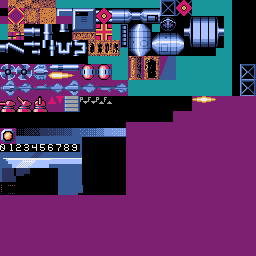
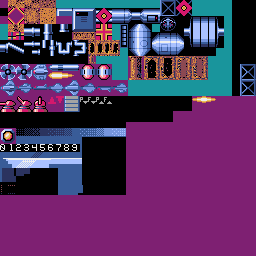
砲台も一緒に落ちるようにした

diff --git a/source/enemy.py b/source/enemy.py
@@ -425,7 +425,6 @@ class Battery1(EnemyBase):
 		self.first = 120
 		self.shot_speed = 2
 		self.remove_min_x = -16
-		self.dr8 = 4
 
 	def update(self):
 		if self.x < self.remove_min_x:
@@ -435,44 +434,46 @@ class Battery1(EnemyBase):
 			enemy_shot(self.x+8,self.y+6, self.shot_speed, 0)
 
 	def draw(self):
-		if self.cnt & 3 == 3:
-			self.dr8 = gcommon.get_direction_my(self.x+8, self.y +8)
-		y = int(self.y+0.5)
-		if self.mirror == 0:
-			if self.dr8  in (0, 1):
-				pyxel.blt(self.x, y, 1, 0, 96, -16, 16, gcommon.TP_COLOR)
-			elif self.dr8 == 2:
-				pyxel.blt(self.x, y, 1, 32, 96, 16, 16, gcommon.TP_COLOR)
-			elif self.dr8 in (3, 4):
-				pyxel.blt(self.x, y, 1, 0, 96, 16, 16, gcommon.TP_COLOR)
-			elif self.dr8 in (5, 6):
-				pyxel.blt(self.x, y, 1, 16, 96, 16, 16, gcommon.TP_COLOR)
-			elif self.dr8 == 7:
-				pyxel.blt(self.x, y, 1, 16, 96, -16, 16, gcommon.TP_COLOR)
-		else:
-			if self.dr8 == 0:
-				pyxel.blt(self.x, y, 1, 0, 96, -16, -16, gcommon.TP_COLOR)
-			elif self.dr8 == 1:
-				pyxel.blt(self.x, y, 1, 16, 96, -16, -16, gcommon.TP_COLOR)
-			elif self.dr8 == 2:
-				pyxel.blt(self.x, y, 1, 32, 96, 16, -16, gcommon.TP_COLOR)
-			elif self.dr8 == 3:
-				pyxel.blt(self.x, y, 1, 16, 96, 16, -16, gcommon.TP_COLOR)
-			elif self.dr8 == 4:
-				pyxel.blt(self.x, y, 1, 0, 96, 16, -16, gcommon.TP_COLOR)
-			elif self.dr8 == 5:
-				pyxel.blt(self.x, y, 1, 0, 96, 16, -16, gcommon.TP_COLOR)
-			elif self.dr8 == 6:
-				pyxel.blt(self.x, y, 1, 32, 96, 16, -16, gcommon.TP_COLOR)
-			elif self.dr8 == 7:
-				pyxel.blt(self.x, y, 1, 16, 96, -16, -16, gcommon.TP_COLOR)
+		drawBattery1(self.x, self.y, self.mirror)
 
+def drawBattery1(x, y, mirror):
+	dr8 = 0
+	dr8 = gcommon.get_direction_my(x+8, y +8)
+	y = int(y)
+	if mirror == 0:
+		if dr8  in (0, 1):
+			pyxel.blt(x, y, 1, 0, 96, -16, 16, gcommon.TP_COLOR)
+		elif dr8 == 2:
+			pyxel.blt(x, y, 1, 32, 96, 16, 16, gcommon.TP_COLOR)
+		elif dr8 in (3, 4):
+			pyxel.blt(x, y, 1, 0, 96, 16, 16, gcommon.TP_COLOR)
+		elif dr8 in (5, 6):
+			pyxel.blt(x, y, 1, 16, 96, 16, 16, gcommon.TP_COLOR)
+		elif dr8 == 7:
+			pyxel.blt(x, y, 1, 16, 96, -16, 16, gcommon.TP_COLOR)
+	else:
+		if dr8 == 0:
+			pyxel.blt(x, y, 1, 0, 96, -16, -16, gcommon.TP_COLOR)
+		elif dr8 == 1:
+			pyxel.blt(x, y, 1, 16, 96, -16, -16, gcommon.TP_COLOR)
+		elif dr8 == 2:
+			pyxel.blt(x, y, 1, 32, 96, 16, -16, gcommon.TP_COLOR)
+		elif dr8 == 3:
+			pyxel.blt(x, y, 1, 16, 96, 16, -16, gcommon.TP_COLOR)
+		elif dr8 == 4:
+			pyxel.blt(x, y, 1, 0, 96, 16, -16, gcommon.TP_COLOR)
+		elif dr8 == 5:
+			pyxel.blt(x, y, 1, 0, 96, 16, -16, gcommon.TP_COLOR)
+		elif dr8 == 6:
+			pyxel.blt(x, y, 1, 32, 96, 16, -16, gcommon.TP_COLOR)
+		elif dr8 == 7:
+			pyxel.blt(x, y, 1, 16, 96, -16, -16, gcommon.TP_COLOR)
 
 
 class StageClearText(EnemyBase):
 	def __init__(self, stage):
 		super(StageClearText, self).__init__()
-		self.t = gcommon.T_STAGE_START
+		t = gcommon.T_STAGE_START
 		self.x = 0
 		self.y = 0
 		self.stage = stage
@@ -1219,13 +1220,14 @@ class Shutter1(EnemyBase):
 
 # 遺跡基本クラス
 class RuinBase(EnemyBase):
-	def __init__(self, x, y, direction, mWidth, mHeight):
+	def __init__(self, mx, my, direction, mWidth, mHeight, needDummyBlock):
 		super(RuinBase, self).__init__()
-		self.x = x		# screen x
-		self.y = y		# screen y
+		pos = gcommon.mapPosToScreenPos(mx, my)
+		self.x = pos[0]		# screen x
+		self.y = pos[1]		# screen y
 		self.direction = direction
-		self.mWidth = mWidth	# 幅（8ドット単位） 2 -6
-		self.mHeight = mHeight
+		self.mWidth = mWidth	# 幅（8ドット単位）
+		self.mHeight = mHeight	# 高さ（8ドット単位）
 		self.left = 0
 		self.right = self.mWidth * 8 -1
 		self.top = 0
@@ -1234,7 +1236,11 @@ class RuinBase(EnemyBase):
 		self.layer = gcommon.C_LAYER_UNDER_GRD
 		self.hitCheck = True
 		self.shotHitCheck = True
-		self.ruinType = 0
+		self.needDummyBlock = needDummyBlock
+		if needDummyBlock:
+			gcommon.setMapDataByMapPos2(mx, my, gcommon.DUMMY_BLOCK_NO, mWidth, mHeight)
+		else:
+			gcommon.setMapDataByMapPos2(mx, my, 0, mWidth, mHeight)
 
 	def update(self):
 		if self.x + self.right < 0:
@@ -1247,38 +1253,42 @@ class RuinBase(EnemyBase):
 				check = gcommon.isMapFreePos(self.x + i*8, self.y +self.mHeight * 8)
 			else:
 				pos = gcommon.screenPosToMapPos(self.x + i*8, self.y -1)
-				#print("pre check")
 				check = gcommon.isMapFreeByMapPos(pos[0], pos[1])
-				#if self.ruinType == 1:
-				#	print("check = " + str(pos[0]) + " " + str(pos[1]) + str(check) + " " + str(gcommon.getMapDataByMapPos(pos[0], pos[1])))
-				#gcommon.setMapDataByMapPos(pos[0], pos[1], 7)
 			if check == False:
 				# 何かある
 				exist = True
 				if self.state == 1:
-					# 落ちている状態だったら、そこを障害物として埋める
-					mpos = gcommon.screenPosToMapPos(self.x, self.y)
-					gcommon.setMapDataByMapPos2(mpos[0], mpos[1], gcommon.DUMMY_BLOCK_NO, self.mWidth, self.mHeight)
+					if self.needDummyBlock:
+						# 落ちている状態だったら、そこを障害物として埋める
+						mpos = gcommon.screenPosToMapPos(self.x, self.y)
+						gcommon.setMapDataByMapPos2(mpos[0], mpos[1], gcommon.DUMMY_BLOCK_NO, self.mWidth, self.mHeight)
 					# 落ちていない状態とする
 					self.state = 0
 				break
 		if exist == False:
 			# 下に何もない
 			if self.state == 0:
-				# 今の場所をクリアする
-				mpos = gcommon.screenPosToMapPos(self.x, self.y)
-				gcommon.setMapDataByMapPos2(mpos[0], mpos[1], 0, self.mWidth, self.mHeight)
+				if self.needDummyBlock:
+					# 今の場所をクリアする
+					mpos = gcommon.screenPosToMapPos(self.x, self.y)
+					gcommon.setMapDataByMapPos2(mpos[0], mpos[1], 0, self.mWidth, self.mHeight)
 				# 落ちる状態に移行
 				self.state = 1
 			self.y += self.direction
 			if self.y > 192 or self.y + self.bottom < 0:
 				self.remove()
 
+	# 破壊されたとき
+	def broken(self):
+		super(RuinBase, self).broken()
+		mpos = gcommon.screenPosToMapPos(self.x, self.y)
+		gcommon.setMapDataByMapPos2(mpos[0], mpos[1], 0, self.mWidth, self.mHeight)
+
 
 # 遺跡柱
 class RuinPillar1(RuinBase):
-	def __init__(self, x, y, direction, size):
-		super(RuinPillar1, self).__init__(x, y, direction, 2, size)
+	def __init__(self, mx, my, direction, size):
+		super(RuinPillar1, self).__init__(mx, my, direction, 2, size, True)
 		self.size = size	# 高さ（8ドット単位） 2 - 6
 		self.hp = 30
 		self.bx = (self.size -2) * 2
@@ -1287,27 +1297,45 @@ class RuinPillar1(RuinBase):
 		pyxel.bltm(int(self.x), self.y, 0, self.bx, 0, 2, self.size * 8, gcommon.TP_COLOR)
 		#pyxel.rectb(self.x +self.left, self.y + self.top, self.right -self.left+1, self.bottom -self.top+1, 7)
 
-	# 破壊されたとき
-	def broken(self):
-		super(RuinPillar1, self).broken()
-		mpos = gcommon.screenPosToMapPos(self.x, self.y)
-		gcommon.setMapDataByMapPos2(mpos[0], mpos[1], 0, self.mWidth, self.mHeight)
 
 # 遺跡床
 class RuinFloor1(RuinBase):
-	def __init__(self, x, y, direction, size):
-		super(RuinFloor1, self).__init__(x, y, direction, size*2, 2)
+	def __init__(self, mx, my, direction, size):
+		super(RuinFloor1, self).__init__(mx, my, direction, size*2, 2, True)
 		self.size = size
 		self.left = 0
 		self.top = 4
 		self.right = self.mWidth * 8
 		self.bottom = self.mHeight * 8 -5
 		self.by = (self.size -2) * 2
-		self.ruinType = 1
 
 	def draw(self):
 		pyxel.bltm(self.x, self.y, 0, 10, self.by, self.size *2, 2, gcommon.TP_COLOR)
 		#pyxel.rectb(self.x +self.left, self.y + self.top, self.right -self.left+1, self.bottom -self.top+1, 7)
 
+# 遺跡と落ちる砲台
+class Battery2(RuinBase):
+	def __init__(self, mx, my, direction):
+		# direction  1:通常 -1:上下逆
+		super(Battery2, self).__init__(mx, my, direction, 2, 2, False)
+		self.left = 2
+		self.right = 13
+		if self.direction == 1:
+			self.top = 5
+			self.bottom = 15
+		else:
+			self.top = 0
+			self.bottom = 10
+		self.hp = 10
 
+	def update(self):
+		super(Battery2, self).update()
+		if self.cnt & 63 == 63:
+			enemy_shot(self.x+8,self.y+6, 2, 0)
+
+	def draw(self):
+		if self.direction == 1:
+			drawBattery1(self.x, self.y, 0)
+		else:
+			drawBattery1(self.x, self.y, 1)
 

diff --git a/source/graslay.py b/source/graslay.py
@@ -595,6 +595,7 @@ class MapDraw3:
 				mx = gcommon.screenPosToMapPosX(256)
 				n = gcommon.getMapDataByMapPos(mx, my)
 				if n in (390, 391):
+					# 砲台
 					gcommon.setMapDataByMapPos(mx, my, 0)
 					obj = enemy.Battery1([0,0,mx, my, 0])
 					obj.first = 20
@@ -639,6 +640,7 @@ class MapDraw3:
 		pass
 
 	def draw(self):
+		# 上下ループマップなのでややこしい
 		if gcommon.map_x < 0:
 			if gcommon.map_y > (128 -24) * 8:
 				# 上を描く
@@ -690,31 +692,29 @@ class MapDraw4:
 			n = gcommon.getMapDataByMapPos(mx, my)
 			if n == 394:
 				# 柱
-				pos = gcommon.mapPosToScreenPos(mx, my)
 				size = gcommon.getMapDataByMapPos(mx+1, my) -576
-				gcommon.setMapDataByMapPos2(mx, my, gcommon.DUMMY_BLOCK_NO, 2, size)
-				obj = enemy.RuinPillar1(pos[0], pos[1], 1, size)
+				obj = enemy.RuinPillar1(mx, my, 1, size)
 				gcommon.ObjMgr.addObj(obj)
 			elif n == 395:
 				# 床
-				pos = gcommon.mapPosToScreenPos(mx, my)
 				size = gcommon.getMapDataByMapPos(mx+1, my) -576
-				gcommon.setMapDataByMapPos2(mx, my, gcommon.DUMMY_BLOCK_NO, size * 2, 2)
-				obj = enemy.RuinFloor1(pos[0], pos[1], 1, size)
+				obj = enemy.RuinFloor1(mx, my, 1, size)
 				gcommon.ObjMgr.addObj(obj)
 			if n == 396:
 				# 柱
-				pos = gcommon.mapPosToScreenPos(mx, my)
 				size = gcommon.getMapDataByMapPos(mx+1, my) -576
-				gcommon.setMapDataByMapPos2(mx, my, gcommon.DUMMY_BLOCK_NO, 2, size)
-				obj = enemy.RuinPillar1(pos[0], pos[1], -1, size)
+				obj = enemy.RuinPillar1(mx, my, -1, size)
 				gcommon.ObjMgr.addObj(obj)
 			elif n == 397:
 				# 床
-				pos = gcommon.mapPosToScreenPos(mx, my)
 				size = gcommon.getMapDataByMapPos(mx+1, my) -576
-				gcommon.setMapDataByMapPos2(mx, my, gcommon.DUMMY_BLOCK_NO, size * 2, 2)
-				obj = enemy.RuinFloor1(pos[0], pos[1], -1, size)
+				obj = enemy.RuinFloor1(mx, my, -1, size)
+				gcommon.ObjMgr.addObj(obj)
+			elif n in (390, 391):
+				# 砲台
+				obj = enemy.Battery2(mx, my, 1)
+				if n == 391:
+					obj.direction = -1
 				gcommon.ObjMgr.addObj(obj)
 		gcommon.map_x += gcommon.cur_scroll_x
 		gcommon.map_y += gcommon.cur_scroll_y

diff --git a/source/boss.py b/source/boss.py
@@ -655,6 +655,7 @@ class Boss2(enemy.EnemyBase):
 		gcommon.ObjMgr.objs.append(Boss3Explosion(gcommon.getCenterX(self), gcommon.getCenterY(self), gcommon.C_LAYER_EXP_SKY))
 		gcommon.score+=self.score
 		gcommon.sound(gcommon.SOUND_LARGE_EXP)
+		enemy.Splash.append(gcommon.getCenterX(self), gcommon.getCenterY(self), gcommon.C_LAYER_EXP_SKY)
 		gcommon.ObjMgr.objs.append(enemy.Delay(enemy.StageClear, [], 300))
 
 
@@ -720,7 +721,7 @@ class Boss3Explosion(enemy.EnemyBase):
 				self.y, self.cnt**1.2 * 2,7)
 			#--circfill(self.x+(self.r-self.l)/2,
 			#-- self.y+(self.b-self.u)/2, self.cnt,7)
-			gcommon.circfill_obj_center(self, self.cnt**1.2, 7)
+			gcommon.circfill_obj_center(self, self.cnt**1.1, 7)
 			gcommon.draw_splash(self)
 
 		elif self.state==1:
